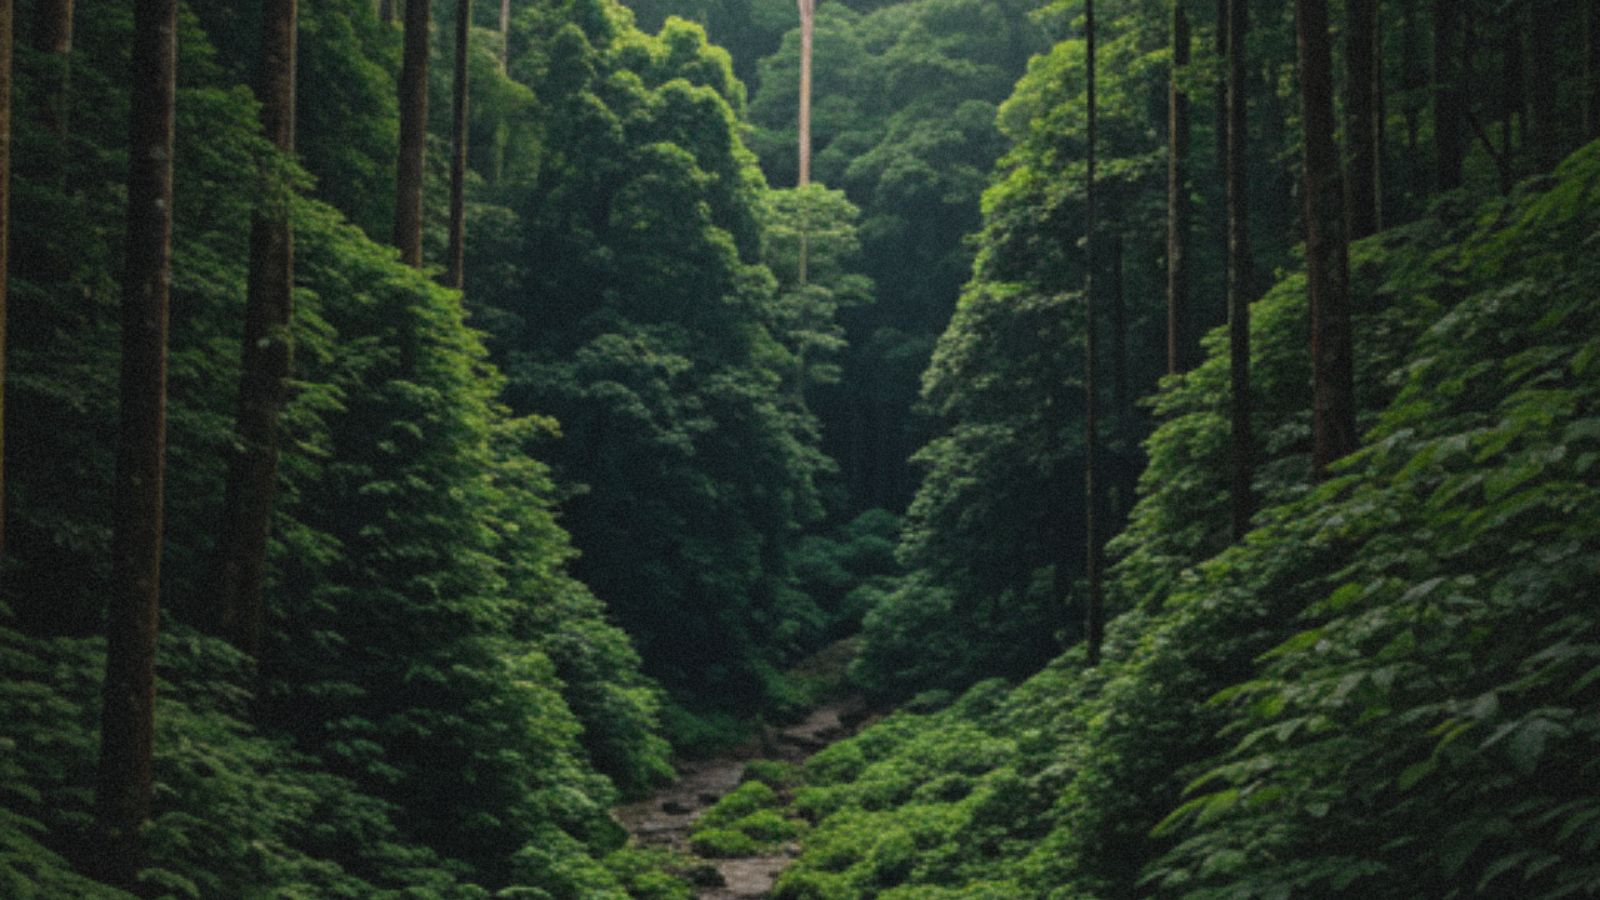
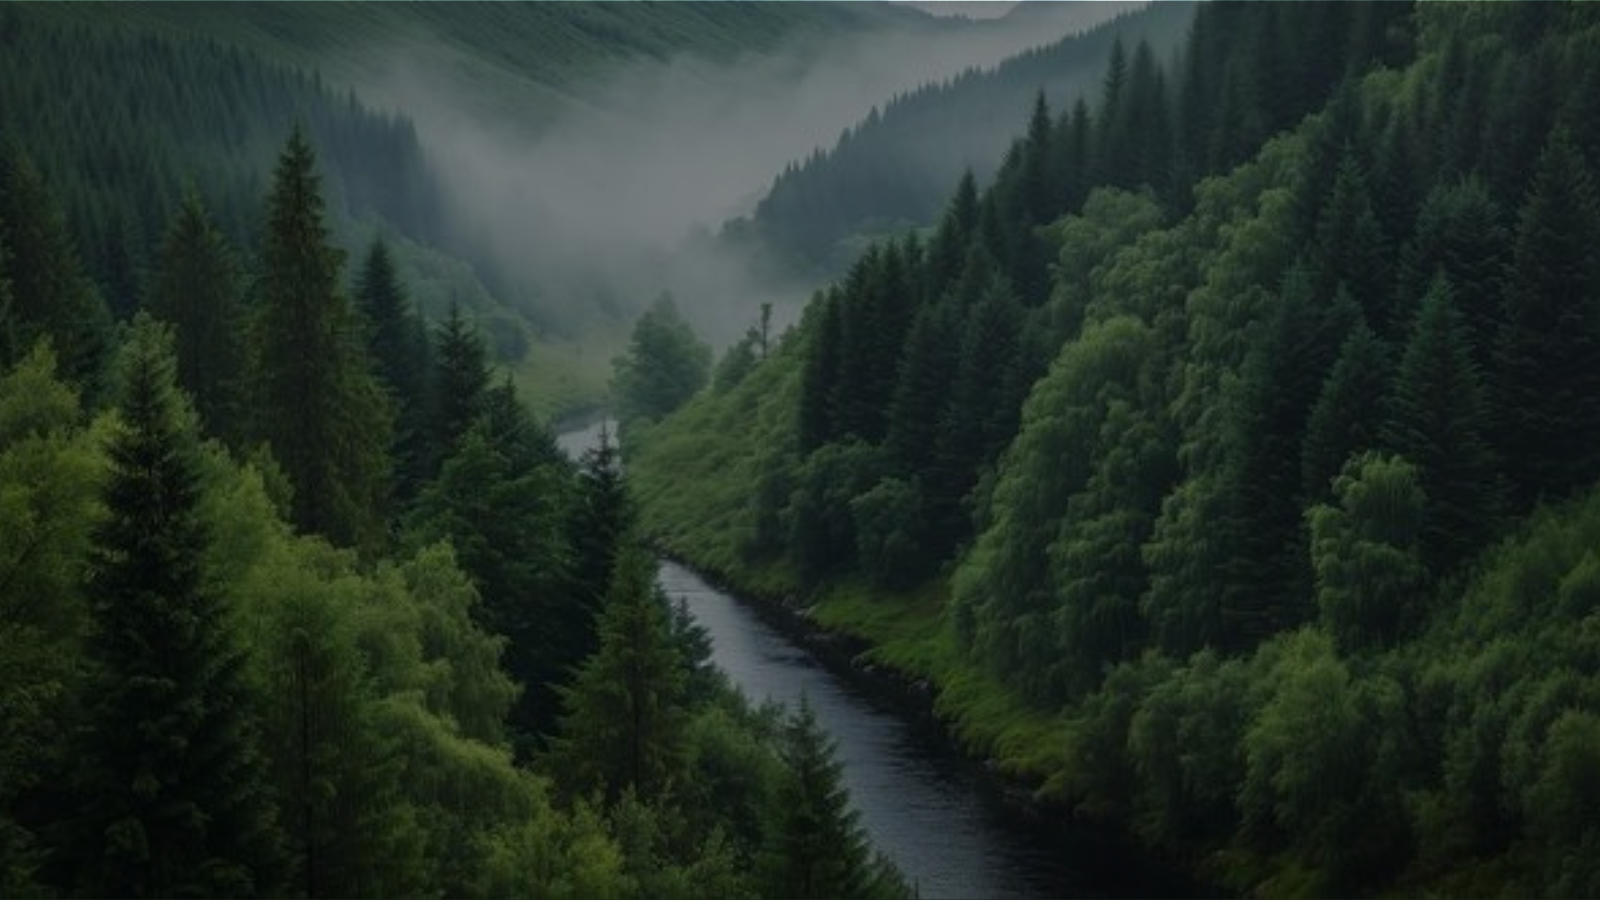
update my forest page

diff --git a/resources/views/myforest.blade.php b/resources/views/myforest.blade.php
@@ -1,17 +1,79 @@
 @extends('layouts.app')
 
-@section('title', 'Catalogue Product - Las Lamon')
+@section('title', 'My Forest - Las Lamon')
 
 @section('content')
     <!-- Single Page Header start -->
     <div class="container-fluid page-header py-5">
         <h1 class="text-center text-white display-6">My Forest</h1>
-            <ol class="breadcrumb justify-content-center mb-0">
-                <li class="breadcrumb-item"><a href="#">Home</a></li>
-                <li class="breadcrumb-item"><a href="#">Pages</a></li>
-                <li class="breadcrumb-item active text-white">My Forest</li>
-            </ol>
+        <ol class="breadcrumb justify-content-center mb-0">
+            <li class="breadcrumb-item"><a href="#">Home</a></li>
+            <li class="breadcrumb-item"><a href="#">Pages</a></li>
+            <li class="breadcrumb-item active text-white">My Forest</li>
+        </ol>
     </div>
     <!-- Single Page Header End -->
 
+    <!-- Cart Page Start -->
+    <div class="container-fluid py-5">
+        <div class="container py-5">
+            <div class="table-responsive">
+                <table class="table align-middle">
+                    <thead class="table-light">
+                        <tr>
+                            <th>Products</th>
+                            <th>Name</th>
+                            <th>Qty</th>
+                            <th class="text-center">Action</th>
+                        </tr>
+                    </thead>
+                    <tbody>
+                        <tr>
+                            <!-- Image -->
+                            <td>
+                                <img src="{{ asset('assets/img/hero-img.jpg') }}" class="img-fluid rounded"
+                                    style="width: 70px; height: 70px; object-fit: cover;">
+                            </td>
+
+                            <!-- Name -->
+                            <td>Big Banana</td>
+
+                            <!-- Quantity -->
+                            <td>10</td>
+
+                            <!-- Action -->
+                            <td class="text-center">
+                                <div class="d-flex flex-column flex-md-row justify-content-center gap-1">
+
+                                    <!-- e-Certificate -->
+                                    <a href="#"
+                                        class="btn btn-primary rounded-pill 
+                                          px-2 py-1 px-md-3 py-md-2 small">
+                                        <i class="fa fa-certificate me-1"></i>
+                                        <span class="d-none d-md-inline">e-Certificate</span>
+                                    </a>
+                                    <!-- Location -->
+                                    <a href="#"
+                                        class="btn btn-success rounded-pill 
+                                          px-2 py-1 px-md-3 py-md-2 small">
+                                        <i class="fa fa-map-marker-alt me-1"></i>
+                                        <span class="d-none d-md-inline">Location</span>
+                                    </a>
+                                </div>
+                            </td>
+                        </tr>
+                    </tbody>
+                </table>
+            </div>
+        </div>
+    </div>
+    <!-- Cart Page End -->
+
+    <!-- Explore More -->
+    <div class="d-flex justify-content-end mt-4 ml-5 ml-md-0">
+        <a href="{{ route('catalogue') }}" class="text-primary text-decoration-none d-inline-flex align-items-center gap-1">
+            Explore More Catalogue
+            <i class="fa fa-arrow-right"></i>
+        </a>
+    </div>
 @endsection

diff --git a/resources/views/partials/navbar.blade.php b/resources/views/partials/navbar.blade.php
@@ -43,7 +43,8 @@
                         <span
                             class="position-absolute bg-secondary rounded-circle d-flex align-items-center justify-content-center text-dark px-1"
                             style="top: -5px; left: 15px; height: 20px; min-width: 20px;">3</span>
-                    </a> @auth
+                    </a> 
+                    @auth
                         <span class="my-auto me-3">{{ auth()->user()->name }}</span>
 
                         <a href="#" class="my-auto"
